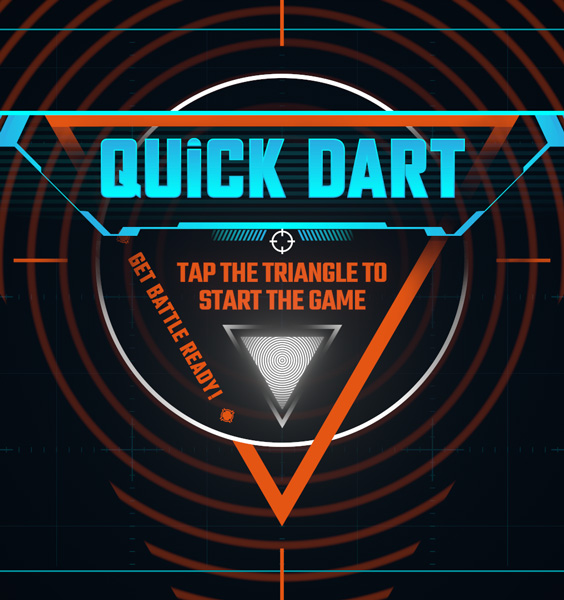
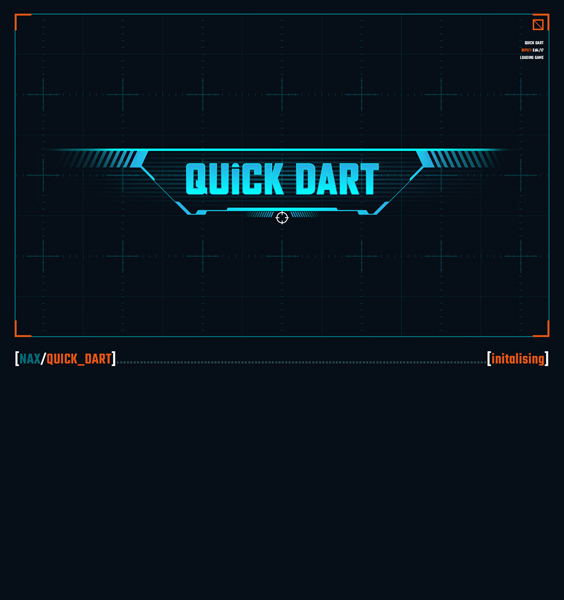
Updated thumbnails for TB and QD. Added youtube videos to VV and TB

diff --git a/blog/nax-tunnel-blast/index.html b/blog/nax-tunnel-blast/index.html
@@ -80,7 +80,21 @@
 <em>gameplay</em></p>
 <h3>Gameplay</h3>
 <p>A group of players have 60 seconds to navigate a network of tunnels. Using Nerf blasters they must hit moving targets to increase their score and replenish the ever depleting energy bar. A bonus multiplier is applied for getting a streak of hits.</p>
+<p><div class="youtube-video" style="position: relative; padding-bottom: 56.25%; height: 0; overflow: hidden; max-width: 100%;">
+<iframe
+          src="https://www.youtube.com/embed/zVTLiTq7OYE?&rel=0&modestbranding=1&showinfo=1" 
+          frameborder="0" allow="accelerometer; autoplay; clipboard-write; encrypted-media; gyroscope; picture-in-picture" 
+          allowfullscreen>
+</iframe>
+</div></p>
 <p>Energy directly relates to speed through the tunnels, the more targets the players hit the faster they go.</p>
+<p><div class="youtube-video" style="position: relative; padding-bottom: 37.5%; height: 0; overflow: hidden; max-width: 100%;">
+<iframe
+          src="https://www.youtube.com/embed/ymxA6cltWt0?&rel=0&modestbranding=1&showinfo=1" 
+          frameborder="0" allow="accelerometer; autoplay; clipboard-write; encrypted-media; gyroscope; picture-in-picture" 
+          allowfullscreen>
+</iframe>
+</div></p>
 <p>Players will encounter branching paths in the tunnel network. Here time slows and the have a few seconds to decide to select the path forward. Not all paths are equal, so some trial and error is required for the best scores.</p>
 <p>After players complete the tunnel, or run out of time, a map of their progress and score is displayed.</p>
 <p><img src="/assets/images/blog/tunnel-blast/tb-path-select-720.jpg" alt="">

diff --git a/blog/virtual-village/index.html b/blog/virtual-village/index.html
@@ -81,6 +81,13 @@
 <h3>Gameplay</h3>
 <p>Players are presented with a top down view of an island, rear projected onto a large glass surface, and are supplied with a number of physical tokens representing road, rail, river and air which can be placed on the surface.</p>
 <p>Each detected token becomes a node in it's specific path. When at least 2 nodes have been placed, traffic will start to flow along the path. Adding or moving tokens changes the shape of the path.</p>
+<p><div class="youtube-video" style="position: relative; padding-bottom: 28.125%; height: 0; overflow: hidden; max-width: 100%;">
+<iframe
+          src="https://www.youtube.com/embed/ibzuog7N9Ns?&rel=0&modestbranding=1&showinfo=1" 
+          frameborder="0" allow="accelerometer; autoplay; clipboard-write; encrypted-media; gyroscope; picture-in-picture" 
+          allowfullscreen>
+</iframe>
+</div></p>
 <p>A second wall mounted screen flips between a zoomed out view of the island and views from vehicles moving along the various paths.</p>
 <p>Nodes also spawn buildings in the vicinity, the more nodes the more buildings will spawn.</p>
 <p><img src="/assets/images/blog/virtual-village/screen1_6.jpg" alt="">

diff --git a/assets/css/style.css b/assets/css/style.css
@@ -872,6 +872,17 @@ textarea.form-control {
   color: #00113E;
 }
 
+.site-blog-details video+em {
+  margin-top: -8px;
+  display: block;
+  left: 0;
+  font-family: "Josefin Sans", serif;
+  font-size: 14px;
+  text-transform: lowercase;
+  font-style: normal;
+  color: #00113E;
+}
+
 .site-blog-details .blog-title {
   font-size: 40px;
 }
@@ -1385,6 +1396,14 @@ textarea.form-control {
   text-transform: uppercase;
   margin-bottom: 50px;
   letter-spacing: 3px;
+}
+
+.youtube-video iframe {
+  position: absolute;
+  top: 0;
+  left: 0;
+  width: 100%;
+  height: 100%;
 }
 
 /*# sourceMappingURL=maps/style.css.map */
